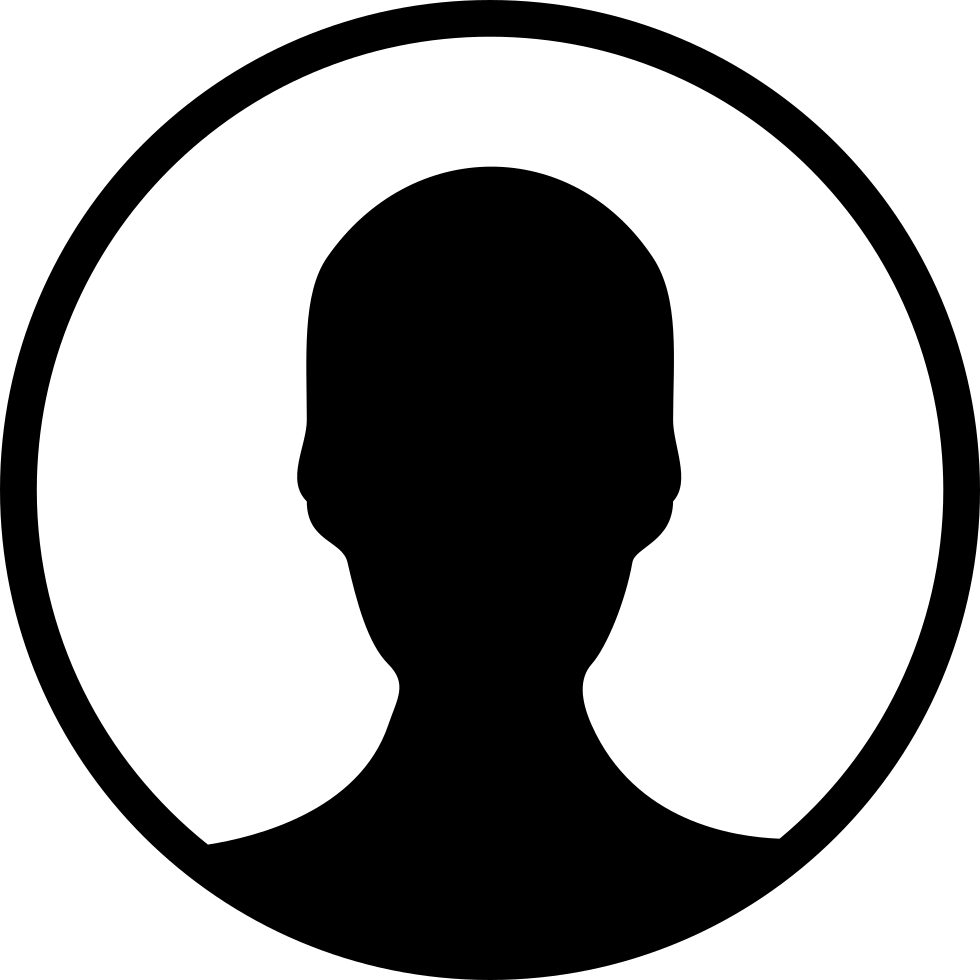
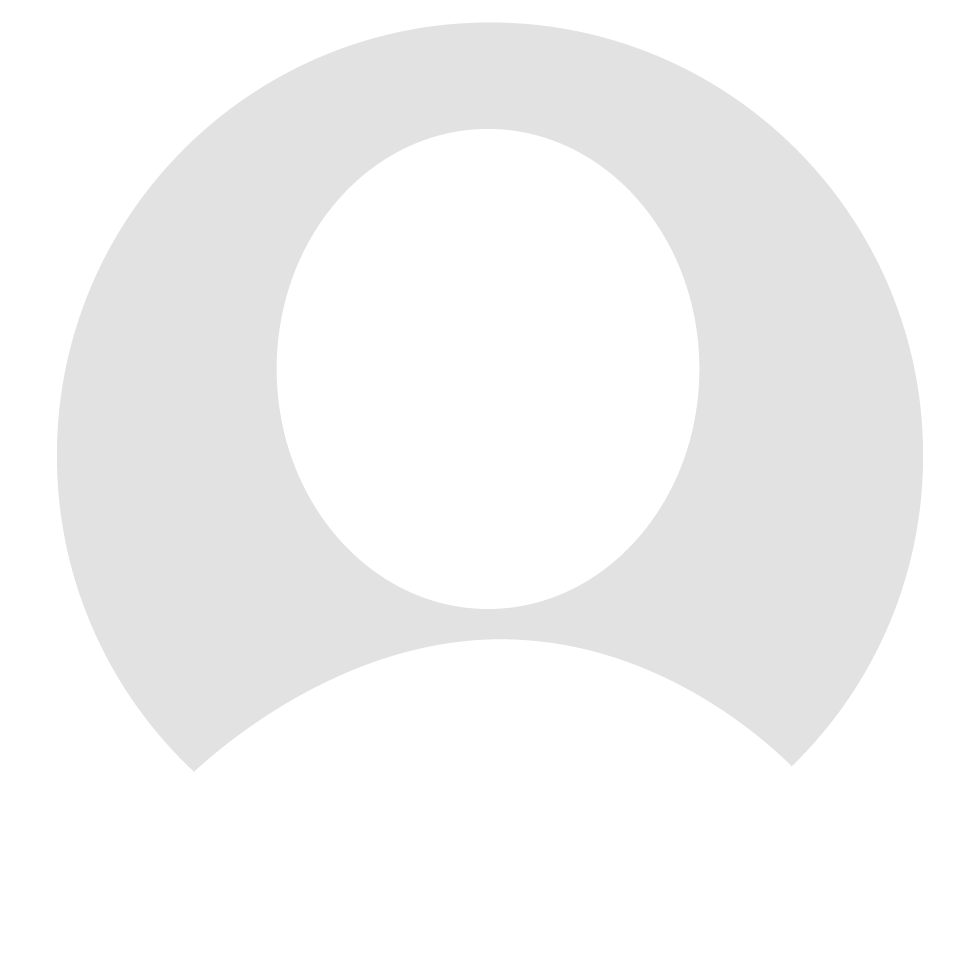
photo de profil + page select photo

diff --git a/src/pages/profile/profile.ts b/src/pages/profile/profile.ts
@@ -9,6 +9,7 @@ import { FiltresPage } from '../filtres/filtres';
 import { TakePhotoPage } from '../take-photo/take-photo';
 import { AccueilPage } from '../accueil/accueil';
 import { ModifProfilPage } from '../modif-profil/modif-profil';
+import { SelectedPhotoPage } from '../selected-photo/selected-photo';
 
 
 @IonicPage()
@@ -26,7 +27,9 @@ export class ProfilePage implements OnInit {
   public suivi:any;
   public response:any;
   public userParams:boolean = false;
+  public userPhoto:boolean = false;
   public userBiographie:boolean = false;
+  public className: string;
 
 
   public filtresPage = FiltresPage;
@@ -34,7 +37,6 @@ export class ProfilePage implements OnInit {
   public takePhotoPage = TakePhotoPage;
   public modifProfilePage = ModifProfilPage;
 
-  public selectPictures: boolean = false;
   public visible: boolean = true;
 
   constructor(public navCtrl: NavController, public navParams: NavParams, private getDataProvider:GetDataProvider, private storage:Storage) {
@@ -134,23 +136,17 @@ export class ProfilePage implements OnInit {
 
   }
 
-  selectAll(){
-    if(this.userParams === true){
-      console.log("Sélection de toutes les photos");
-      this.selectPictures = true;
-    }
-
-  }
-
   selectOne(index){
-    console.log("Sélection de la photo " + index)
-    // this.visible = !this.visible;
+    // console.log("Sélection de la photo " + index)
     // console.log(this.photos[index])
+    if(this.userParams === true){
+      this.navCtrl.setRoot(SelectedPhotoPage, {
+        imageSelectionne: this.photos[index]
+      })
+    }
   }
 
-  unSelect(){
-    this.selectPictures = false;
-  }
+
 
 
   load(page: any){

diff --git a/src/pages/selected-photo/selected-photo.ts b/src/pages/selected-photo/selected-photo.ts
@@ -1,0 +1,54 @@
+import { Component } from '@angular/core';
+import { IonicPage, NavController, NavParams, LoadingController, AlertController } from 'ionic-angular';
+
+
+import { ProfilePage } from '../profile/profile';
+
+
+
+@IonicPage()
+@Component({
+  selector: 'page-selected-photo',
+  templateUrl: 'selected-photo.html',
+})
+export class SelectedPhotoPage {
+  public imageSelectionne:string;
+
+
+  constructor(public navCtrl: NavController, public navParams: NavParams, private alertCtrl: AlertController) {
+    this.imageSelectionne = this.navParams.get('imageSelectionne');
+  }
+
+  popView(){
+    this.navCtrl.setRoot(ProfilePage);
+  }
+
+  supprimerPhoto(){
+    let alert = this.alertCtrl.create({
+      title: 'Confirmer la suppression',
+      message: 'Supprimer cette photo ?',
+      buttons: [
+        {
+          text: 'Ne pas supprimer',
+          role: 'cancel',
+          handler: () => {
+            console.log('Cancel clicked');
+          }
+        },
+        {
+          text: 'Supprimer',
+          handler: () => {
+            console.log("suppression de la photo")    // SUPPRIMER LA PHOTO DE LA BDD
+            this.popView()
+          }
+        }
+      ]
+    });
+    alert.present();
+  }
+
+
+
+
+
+}

diff --git a/src/pages/accueil/accueil.ts b/src/pages/accueil/accueil.ts
@@ -92,7 +92,6 @@ export class AccueilPage  implements OnInit {
         let headers = new HttpHeaders().set("Authorization","Bearer "+this.token);
         let link = "http://fiber-app.com/SERVER/getPhoto.php";
         this.getDataProvider.getData(link,{headers}).subscribe(data=>{
-          console.log(data);
           this.photoList = data;
           if(data === null || data.byteLength <= 0 || data === undefined || this.photoList.length <= 1){
             console.log("PLus de photos à afficher");
@@ -356,7 +355,7 @@ export class AccueilPage  implements OnInit {
            //METTRE BOUTON POUR COMMENTAIRES PREDEFINIS
            console.log("user");
          }
-         console.log(data);
+         // console.log(data);
          //data[1] = le token
        })
      });
@@ -368,7 +367,7 @@ export class AccueilPage  implements OnInit {
       let req = this.getDataProvider.getData(link,{headers});
       req.subscribe(data=>{
         this.commentaires = data;
-        console.log(this.commentaires);
+        // console.log(this.commentaires);
         if(this.commentaires == null){
           this.commentEmpty = true;
         }

diff --git a/src/app/app.module.ts b/src/app/app.module.ts
@@ -18,6 +18,7 @@ import { ProfilePage } from '../pages/profile/profile';
 import { ModifProfilPage } from '../pages/modif-profil/modif-profil';
 import { TakePhotoPage } from '../pages/take-photo/take-photo';
 import { EnvoiPhotoPage } from '../pages/envoi-photo/envoi-photo';
+import { SelectedPhotoPage } from '../pages/selected-photo/selected-photo';
 import { ConnexionPage } from '../pages/connexion/connexion';
 import { InscriptionPage } from '../pages/inscription/inscription';
 import { DernieresNouvellesPage } from '../pages/dernieres-nouvelles/dernieres-nouvelles';
@@ -44,7 +45,8 @@ import { AbsoluteDrag } from '../directives/absolute-drag/absolute-drag';
     EnvoiPhotoPage,
     DernieresNouvellesPage,
     ModifProfilPage,
-    AbsoluteDrag
+    AbsoluteDrag,
+    SelectedPhotoPage
   ],
   imports: [
     BrowserModule,
@@ -67,6 +69,7 @@ import { AbsoluteDrag } from '../directives/absolute-drag/absolute-drag';
     EnvoiPhotoPage,
     DernieresNouvellesPage,
     ModifProfilPage,
+    SelectedPhotoPage
 
   ],
   providers: [

diff --git a/src/pages/profile/profile.html b/src/pages/profile/profile.html
@@ -19,8 +19,8 @@
 
 
 <ion-content padding>
-  <!-- <img *ngIf="userPhoto" src={{user.photo}}/> -->
-  <img src="assets/imgs/user_profile.png" width=100 alt="">
+  <img *ngIf="userPhoto" src={{user.photo}}/>
+  <img *ngIf="!userPhoto" src="assets/imgs/user_profile.png" width=100 alt="">
   <div class="right">
     <div>
 
@@ -40,9 +40,9 @@
 
   <ion-grid>
     <ion-row>
-      <ion-col col-4 class="overview" *ngFor="let photo of photos; let i = index" (press)="selectAll()">
-        <ion-icon [name]="visible ? 'checkmark-circle-outline' :'checkmark-circle'" class="selectPictures" *ngIf="selectPictures" (click)="selectOne(i)"></ion-icon>
-        <img src={{photo}}/>
+      <ion-col  col-4 class="overview" *ngFor="let photo of photos; let i = index">
+        <!-- <ion-icon [name]="visible ? 'checkmark-circle-outline' :'checkmark-circle'" class="selectPictures" *ngIf="selectPictures" (click)="selectOne(i)"></ion-icon> -->
+        <img (click)="selectOne(i)" src={{photo}} />
       </ion-col>
     </ion-row>
   </ion-grid>

diff --git a/src/pages/selected-photo/selected-photo.html b/src/pages/selected-photo/selected-photo.html
@@ -1,0 +1,24 @@
+<ion-header>
+  <ion-navbar>
+    <ion-buttons left start>
+      <button ion-button (click)="popView()">
+        <img alt="menu" height="23" src="assets/imgs/retour.png">
+      </button>
+    </ion-buttons>
+
+    <ion-title>Fiber</ion-title>
+
+    <ion-buttons right end>
+      <button ion-button (click)="supprimerPhoto()">
+        <img alt="remove" height="23" src="assets/imgs/poubelle.png">
+      </button>
+    </ion-buttons>
+  </ion-navbar>
+</ion-header>
+
+
+<ion-content padding>
+  <img [src]="imageSelectionne"   />
+
+
+</ion-content>

diff --git a/src/pages/envoi-photo/envoi-photo.html b/src/pages/envoi-photo/envoi-photo.html
@@ -16,7 +16,7 @@
     <img [src]="imageTaken"  *ngIf="imageTaken"  />
 
     <!-- INFORMATIONS OBLIGATOIRES -->
-    <ion-textarea placeholder="Ajouter une description de votre photo ici..." type="text" maxlength="100" [(ngModel)]="description" name="description" required></ion-textarea>
+    <ion-textarea placeholder="Ajouter une description de votre photo ici..." type="text" maxlength="65" [(ngModel)]="description" name="description" required></ion-textarea>
 
     <ion-card>
       <span>Obligatoire</span>

diff --git a/src/pages/profile/profile.scss b/src/pages/profile/profile.scss
@@ -33,13 +33,7 @@ page-profile {
     width: 35vw;
   }
 
-  .col:nth-of-type(1){
-    width: 50%;
-    max-width: 50%;
-    flex-basis: 50%;
-  }
-
-  .col:nth-of-type(2){
+  .col:nth-of-type(1), .col:nth-of-type(2){
     width: 50%;
     max-width: 50%;
     flex-basis: 50%;
@@ -53,6 +47,7 @@ page-profile {
     top: 10px;
     right: 10px;
   }
+
 
   p{
     width: 50vw;

diff --git a/src/pages/selected-photo/selected-photo.module.ts b/src/pages/selected-photo/selected-photo.module.ts
@@ -1,0 +1,13 @@
+import { NgModule } from '@angular/core';
+import { IonicPageModule } from 'ionic-angular';
+import { SelectedPhotoPage } from './selected-photo';
+
+@NgModule({
+  declarations: [
+    SelectedPhotoPage,
+  ],
+  imports: [
+    IonicPageModule.forChild(SelectedPhotoPage),
+  ],
+})
+export class SelectedPhotoPageModule {}

diff --git a/src/theme/variables.scss b/src/theme/variables.scss
@@ -25,6 +25,7 @@ $app-direction: ltr;
 // http://ionicframework.com/docs/theming/overriding-ionic-variables/
 
 $content-padding: 16px;
+$alert-button-font-size: 12px;
 
 
 // Named Color Variables

diff --git a/src/pages/selected-photo/selected-photo.scss b/src/pages/selected-photo/selected-photo.scss
@@ -1,0 +1,3 @@
+page-selected-photo {
+
+}

diff --git a/README.md b/README.md
@@ -48,7 +48,9 @@ ATTENTION : Télécharger les modules suivant :
  - REINSTALLATION COMPLETE :
 
  npm install
- 
+
  ionic cordova prepare
 
  ionic cordova run android
+
+ - If bug build > downgrade to cordova 7.1
